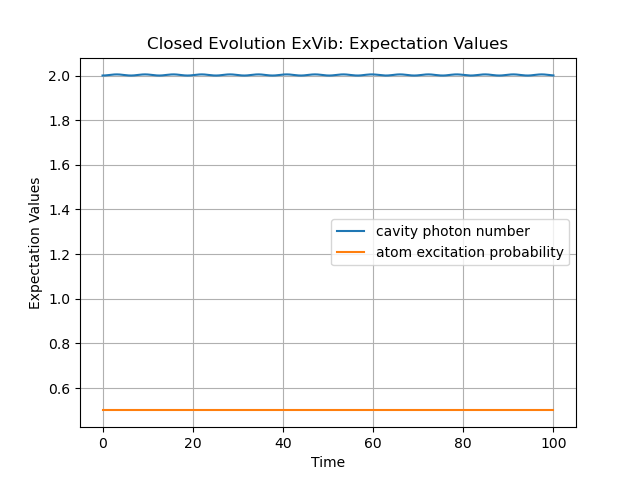
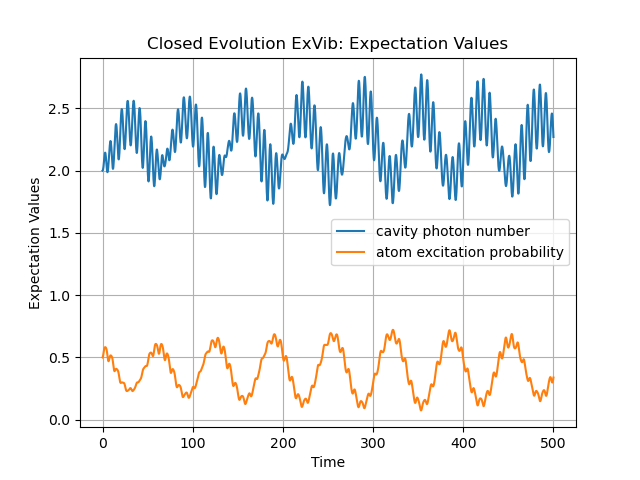
Corrects physical regime for Exciton-Vibration simulation, and plots results.

diff --git a/Research Project/Code/ExVib_Open_eg.py b/Research Project/Code/ExVib_Open_eg.py
@@ -4,17 +4,29 @@ import numpy as np
 import math
 
 
+from TLSQHOSimulator import TLSQHOSimulator
+import qutip as q
+import numpy as np
+import math
+
+
 ############################## SETUP ######################################
 
-tlist = np.linspace(0.0, 500.0, 2000)
+# NCOMMS4012: Consider pigments-protein environment of PE545 complex. Taking parameters stated,
+# d_epsilon = 1042, V = 92, d_E = 1058, w = 1111 all in cm^-1.
+# g = (0.0578)^0.5 = 267 cm^-1
+# Moreover, T ~ 300K room temp expt.
 
-tlist = np.linspace(0.0, 500.0, 2000)
+tlist = np.linspace(0.0, 500.0, 2000)  # units of 1/hbar omega
 
-# constants
+# constants, cm^-1
 w = 1.0
-epsilon = 1.0
-V = 0
-g = 0.05  # weak regime, g < gamma, gamma_th AND g << w (zeta = 0.01, C = 1)
+w_phys = 1111
+d_epsilon = 1042 / w_phys
+V = 92 / w_phys
+g = math.sqrt(
+    0.0578
+)  # weak regime, g < gamma, gamma_th AND g << w (zeta = 0.01, C = 1)
 N = 30  # num Fock states
 n = 2  # photon number
 
@@ -33,7 +45,7 @@ s_lower = q.tensor(q.sigmam(), q.qeye(N))
 s_raise = s_lower.dag()
 
 # Exciton-Vibration Hamiltonian
-H_ex = (0.5 * epsilon * s_z) + (V * s_x)
+H_ex = (0.5 * d_epsilon * s_z) + (V * s_x)
 H_vib = w * adag * a
 H_int = -(g / math.sqrt(2)) * q.tensor(q.sigmaz(), q.destroy(N).dag() + q.destroy(N))
 H = H_ex + H_vib + H_int
@@ -44,9 +56,9 @@ psi0 = q.tensor(basis_atom_e + basis_atom_g, basis_qho) / math.sqrt(2)
 ########################## OPEN SIM SETUP #################################
 
 # Constants
-gamma = 0.1
-gamma_th = 0.1
-kbT = 0.001
+gamma = 0.1 
+gamma_th = 0.1 
+kbT = 0.001 * 300 
 n_omega = 1 / (np.exp(w / kbT) - 1)
 
 # Operators

diff --git a/Research Project/Code/ExVib_Open.py b/Research Project/Code/ExVib_Open.py
@@ -6,13 +6,21 @@ import math
 
 ############################## SETUP ######################################
 
-tlist = np.linspace(0.0, 500.0, 2000)
+# NCOMMS4012: Consider pigments-protein environment of PE545 complex. Taking parameters stated,
+# d_epsilon = 1042, V = 92, d_E = 1058, w = 1111 all in cm^-1.
+# g = (0.0578)^0.5 = 267 cm^-1
+# Moreover, T ~ 300K room temp expt.
 
-# constants
+tlist = np.linspace(0.0, 500.0, 2000)  # units of 1/hbar omega
+
+# constants, cm^-1
 w = 1.0
-epsilon = 1.0
-V = 0
-g = 0.05  # weak regime, g < gamma, gamma_th AND g << w (zeta = 0.01, C = 1)
+w_phys = 1111
+d_epsilon = 1042 / w_phys
+V = 92 / w_phys
+g = math.sqrt(
+    0.0578
+)  # weak regime, g < gamma, gamma_th AND g << w (zeta = 0.01, C = 1)
 N = 30  # num Fock states
 n = 2  # photon number
 
@@ -30,7 +38,7 @@ s_lower = q.tensor(q.sigmam(), q.qeye(N))
 s_raise = s_lower.dag()
 
 # Exciton-Vibration Hamiltonian
-H_ex = (0.5 * epsilon * s_z) + (V * s_x)
+H_ex = (0.5 * d_epsilon * s_z) + (V * s_x)
 H_vib = w * adag * a
 H_int = -(g / math.sqrt(2)) * q.tensor(q.sigmaz(), q.destroy(N).dag() + q.destroy(N))
 H = H_ex + H_vib + H_int
@@ -41,9 +49,9 @@ psi0 = q.tensor(basis_atom_e, basis_qho)
 ########################## OPEN SIM SETUP #################################
 
 # Constants
-gamma = 0.1
-gamma_th = 0.1
-kbT = 0.001
+gamma = 0.1 
+gamma_th = 0.1 
+kbT = 0.001 * 300 
 n_omega = 1 / (np.exp(w / kbT) - 1)
 
 # Operators

diff --git a/Research Project/Code/ExVib_Closed_eg.py b/Research Project/Code/ExVib_Closed_eg.py
@@ -5,13 +5,21 @@ import math
 
 ############################## SETUP ######################################
 
-tlist = np.linspace(0.0, 100.0, 500)
+# NCOMMS4012: Consider pigments-protein environment of PE545 complex. Taking parameters stated,
+# d_epsilon = 1042, V = 92, d_E = 1058, w = 1111 all in cm^-1.
+# g = (0.0578)^0.5 = 267 cm^-1
+# Moreover, T ~ 300K room temp expt.
 
-# constants
+tlist = np.linspace(0.0, 500.0, 2000)  # units of 1/hbar omega
+
+# constants, cm^-1
 w = 1.0
-epsilon = 1.0
-V = 0
-g = 0.05  # weak regime, g < gamma, gamma_th AND g << w (zeta = 0.01, C = 1)
+w_phys = 1111
+d_epsilon = 1042 / w_phys
+V = 92 / w_phys
+g = math.sqrt(
+    0.0578
+)  # weak regime, g < gamma, gamma_th AND g << w (zeta = 0.01, C = 1)
 N = 30  # num Fock states
 n = 2  # photon number
 
@@ -30,12 +38,12 @@ s_lower = q.tensor(q.sigmam(), q.qeye(N))
 s_raise = s_lower.dag()
 
 # Exciton-Vibration Hamiltonian
-H_ex = (0.5 * epsilon * s_z) + (V * s_x)
+H_ex = (0.5 * d_epsilon * s_z) + (V * s_x)
 H_vib = w * adag * a
 H_int = -(g / math.sqrt(2)) * q.tensor(q.sigmaz(), q.destroy(N).dag() + q.destroy(N))
 H = H_ex + H_vib + H_int
 
-# Initial Condition 
+# Initial Condition
 psi0 = q.tensor(basis_atom_e + basis_atom_g, basis_qho) / math.sqrt(2)
 
 ############################ SIMULATION ###################################

diff --git a/Research Project/Code/ExVib_Closed.py b/Research Project/Code/ExVib_Closed.py
@@ -3,15 +3,24 @@ import qutip as q
 import numpy as np
 import math
 
+
 ############################## SETUP ######################################
 
-tlist = np.linspace(0.0, 100.0, 500)
+# NCOMMS4012: Consider pigments-protein environment of PE545 complex. Taking parameters stated,
+# d_epsilon = 1042, V = 92, d_E = 1058, w = 1111 all in cm^-1.
+# g = (0.0578)^0.5 = 267 cm^-1
+# Moreover, T ~ 300K room temp expt.
 
-# constants
+tlist = np.linspace(0.0, 500.0, 2000)  # units of 1/hbar omega
+
+# constants, cm^-1
 w = 1.0
-epsilon = 1.0
-V = 0
-g = 0.05  # weak regime, g < gamma, gamma_th AND g << w (zeta = 0.01, C = 1)
+w_phys = 1111
+d_epsilon = 1042 / w_phys
+V = 92 / w_phys
+g = math.sqrt(
+    0.0578
+)  # weak regime, g < gamma, gamma_th AND g << w (zeta = 0.01, C = 1)
 N = 30  # num Fock states
 n = 2  # photon number
 
@@ -29,7 +38,7 @@ s_lower = q.tensor(q.sigmam(), q.qeye(N))
 s_raise = s_lower.dag()
 
 # Exciton-Vibration Hamiltonian
-H_ex = (0.5 * epsilon * s_z) + (V * s_x)
+H_ex = (0.5 * d_epsilon * s_z) + (V * s_x)
 H_vib = w * adag * a
 H_int = -(g / math.sqrt(2)) * q.tensor(q.sigmaz(), q.destroy(N).dag() + q.destroy(N))
 H = H_ex + H_vib + H_int

diff --git a/Research Project/Code/TLSQHOSimulator.py b/Research Project/Code/TLSQHOSimulator.py
@@ -125,7 +125,7 @@ class TLSQHOSimulator:
         """
         if subsys not in (0, 1):
             raise ValueError("subsys must be either 0 or 1.")
-        
+
         atom_subsys = [state.ptrace(subsys) for state in results.states]
         vne = [q.entropy_vn(dm) for dm in atom_subsys]
         return vne
